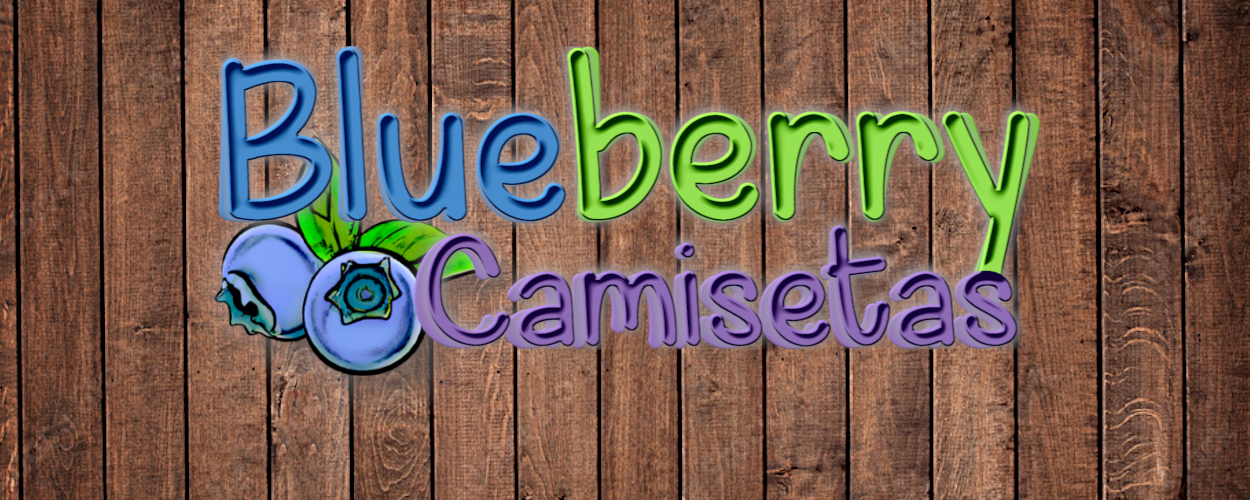
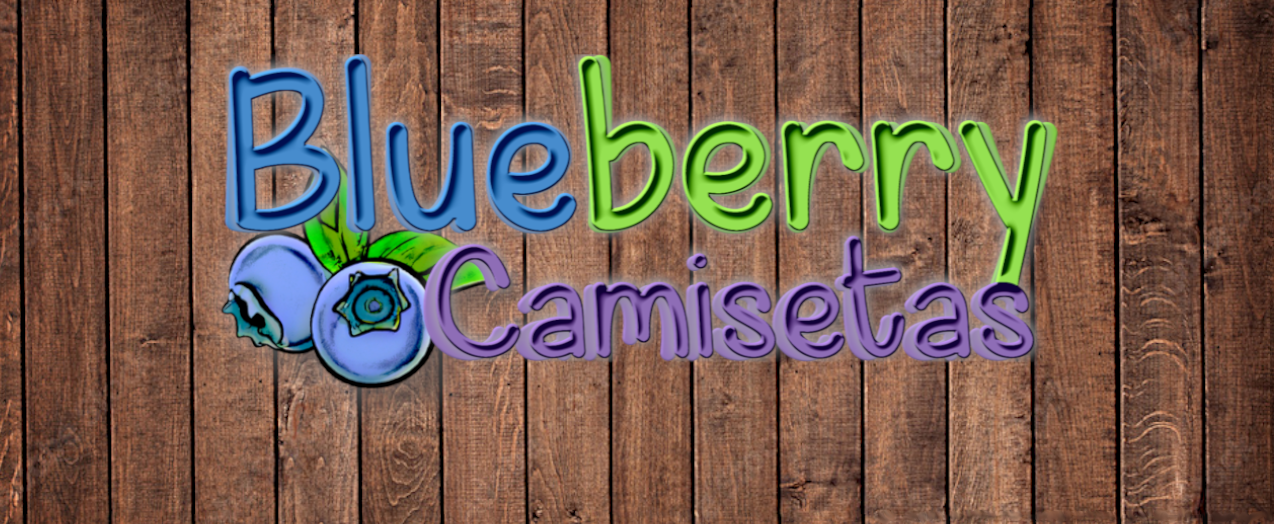
aed

diff --git a/html/budget.html b/html/budget.html
@@ -63,7 +63,9 @@
       <div id="cart">
         <h2>Customização do item</h2>
         <div id="customization-options"></div>
-        <h5 style="color: rgb(255, 0, 0); font-weight: bold;">* Mínimo de 30 peças por pedido</h5>
+        <h5 style="color: rgb(255, 0, 0); font-weight: bold">
+          * Mínimo de 30 peças por pedido
+        </h5>
 
         <button onclick="saveCustomization()">Salvar</button>
         <button onclick="clearCustomization()">Limpar</button>

diff --git a/index.html b/index.html
@@ -94,7 +94,13 @@
 
       <div
         class="grid-item"
-        style="background-color: #3f84c5; padding: 1rem; color: #ffffff"
+        style="
+          background: url('./img/Wood.png');
+          background-size: cover;
+          background-blend-mode: multiply;
+          padding: 1rem;
+          color: #ffffff;
+        "
       >
         <h2 class="pNamePrdt">PRODUTOS</h2>
 

diff --git a/html/Products.html b/html/Products.html
@@ -64,7 +64,9 @@
       <div
         class="grid-item"
         style="
-          background-color: #3f84c5;
+          background: url('../img/Wood.png');
+          background-size: cover;
+          background-blend-mode: multiply;
           padding: 1rem 0.5rem 1rem 0.5rem;
           color: #ffffff;
         "

diff --git a/css/slider.css b/css/slider.css
@@ -4,6 +4,9 @@
   width: 100%;
   margin: auto;
   overflow: hidden;
+  -webkit-box-shadow: 4px 4px 5px 0px rgba(94, 94, 94, 1);
+  -moz-box-shadow: 4px 4px 5px 0px rgba(94, 94, 94, 1);
+  box-shadow: 4px 4px 5px 0px rgba(94, 94, 94, 1);
 }
 
 .slider {
